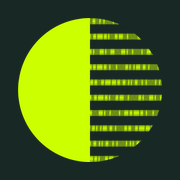
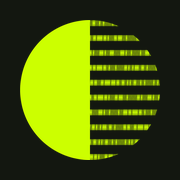
Match the homepage hero to the neon site header
The hero is the Primary Logo 4 wordmark with a glow, the faint grid, a signal wave, and the mono line Official data, clearly explained. The page background is the header's near-black green, including methodology, privacy, and terms.

Changed region(s): [[0.0833, 0.0833, 0.9167, 0.9167]]

diff --git a/index.html b/index.html
@@ -3,33 +3,33 @@
 <head>
     <meta charset="UTF-8">
     <meta name="viewport" content="width=device-width, initial-scale=1.0">
-    <title>Global Signal | All Signal, No Noise.</title>
+    <title>Global Signal | Official data, clearly explained</title>
     <meta name="description" content="Markets and the economy, explained with official data. Watch Global Signal, then read the weekly breakdown on Substack.">
     <meta name="author" content="Global Signal">
     <meta name="robots" content="index, follow">
-    <meta name="theme-color" content="#182825">
+    <meta name="theme-color" content="#131710">
     <meta name="color-scheme" content="dark">
     <link rel="canonical" href="https://www.globalsignal.org/">
 
     <meta property="og:type" content="website">
     <meta property="og:site_name" content="Global Signal">
     <meta property="og:locale" content="en_US">
-    <meta property="og:title" content="Global Signal | All Signal, No Noise.">
+    <meta property="og:title" content="Global Signal | Official data, clearly explained">
     <meta property="og:description" content="Markets and the economy, explained with official data.">
     <meta property="og:url" content="https://www.globalsignal.org/">
     <meta property="og:image" content="https://www.globalsignal.org/assets/og-image.png">
     <meta property="og:image:type" content="image/png">
     <meta property="og:image:width" content="1200">
     <meta property="og:image:height" content="630">
-    <meta property="og:image:alt" content="Global Signal wordmark in neon on dark emerald, with the line All Signal, No Noise.">
+    <meta property="og:image:alt" content="Global Signal wordmark in neon on near-black green, with the line Official data, clearly explained.">
 
     <meta name="twitter:card" content="summary_large_image">
     <meta name="twitter:site" content="@globalsignalorg">
-    <meta name="twitter:title" content="Global Signal | All Signal, No Noise.">
+    <meta name="twitter:title" content="Global Signal | Official data, clearly explained">
     <meta name="twitter:description" content="Markets and the economy, explained with official data.">
     <meta name="twitter:url" content="https://www.globalsignal.org/">
     <meta name="twitter:image" content="https://www.globalsignal.org/assets/og-image.png">
-    <meta name="twitter:image:alt" content="Global Signal wordmark in neon on dark emerald, with the line All Signal, No Noise.">
+    <meta name="twitter:image:alt" content="Global Signal wordmark in neon on near-black green, with the line Official data, clearly explained.">
 
     <link rel="icon" type="image/png" href="/assets/apple-touch-icon.png">
     <link rel="apple-touch-icon" href="/assets/apple-touch-icon.png">
@@ -44,10 +44,17 @@
 
     <main id="main" tabindex="-1">
         <header class="hero">
+            <svg class="hero-wave" viewBox="0 0 1440 420" preserveAspectRatio="none" aria-hidden="true" focusable="false">
+                <path d="M-20 168 C 160 118, 340 228, 520 176 S 860 108, 1060 176 S 1320 246, 1460 176" fill="none" stroke="#6d7a3a" stroke-opacity="0.28" stroke-width="1.4"/>
+                <path d="M-20 232 C 220 292, 420 168, 680 224 S 1040 300, 1460 210" fill="none" stroke="#4e5c30" stroke-opacity="0.34" stroke-width="1.2"/>
+            </svg>
             <div class="wrap">
                 <img class="wordmark" src="/assets/primary-logo-4.png" alt="Global Signal" width="2321" height="230" fetchpriority="high">
-                <h1 class="tagline">All Signal, No Noise.</h1>
-                <p class="lede">Markets and the economy, explained with official data.</p>
+                <h1 class="hero-kicker">
+                    <span class="hero-rule" aria-hidden="true"></span>
+                    <span>Official data, clearly explained</span>
+                    <span class="hero-rule" aria-hidden="true"></span>
+                </h1>
             </div>
         </header>
 

diff --git a/css/home.css b/css/home.css
@@ -1,12 +1,13 @@
 /**
  * Global Signal splash page.
- * Neon #CCFF00 logo, headings, and primary buttons on Dark Emerald #182825.
+ * Neon #CCFF00 logo, headings, and primary buttons on the near-black green
+ * sampled from the site header, #131710.
  * Body text stays champagne. Type follows the original site:
  * Source Serif 4 headings, Inter body, JetBrains Mono labels and buttons.
  */
 
 :root {
-    --emerald: #182825;
+    --emerald: #131710;
     --champagne: #EAEDB0;
     --champagne-dim: #C9CC9E;
     --neon: #CCFF00;
@@ -47,9 +48,9 @@ body::before {
     position: fixed;
     inset: 0;
     background-image:
-        linear-gradient(rgba(234, 237, 176, 0.045) 1px, transparent 1px),
-        linear-gradient(90deg, rgba(234, 237, 176, 0.045) 1px, transparent 1px);
-    background-size: 60px 60px;
+        linear-gradient(rgba(186, 196, 150, 0.07) 1px, transparent 1px),
+        linear-gradient(90deg, rgba(186, 196, 150, 0.07) 1px, transparent 1px);
+    background-size: 120px 120px;
     pointer-events: none;
     z-index: 0;
 }
@@ -125,24 +126,24 @@ a {
 
 .hero {
     position: relative;
-    padding: 3.25rem 0 1.5rem;
+    padding: 3.5rem 0 2.25rem;
+    overflow: hidden;
 }
 
-.hero::before {
-    content: "";
+.hero-wave {
     position: absolute;
-    left: 50%;
-    top: -4rem;
-    width: min(52rem, 140%);
-    height: 24rem;
-    transform: translateX(-50%);
-    background: radial-gradient(ellipse at center, rgba(204, 255, 0, 0.09), transparent 68%);
+    left: 0;
+    right: 0;
+    top: 8%;
+    width: 100%;
+    height: 78%;
     pointer-events: none;
 }
 
 .hero .wrap {
     position: relative;
-    width: min(100%, var(--hero));
+    z-index: 1;
+    width: min(100%, 76rem);
     display: flex;
     flex-direction: column;
     align-items: center;
@@ -150,29 +151,38 @@ a {
 }
 
 .wordmark {
-    width: auto;
-    height: clamp(3.15rem, 9vw, 5rem);
+    width: min(100%, 68rem);
+    height: auto;
+    filter:
+        drop-shadow(0 0 12px rgba(204, 255, 0, 0.55))
+        drop-shadow(0 0 36px rgba(204, 255, 0, 0.28));
+}
+
+.hero-kicker {
+    display: flex;
+    align-items: center;
+    justify-content: center;
+    gap: 0.55rem;
+    margin: 1.65rem 0 0;
     max-width: 100%;
-    filter: drop-shadow(0 0 22px rgba(204, 255, 0, 0.28));
+    font-family: var(--mono);
+    font-size: clamp(0.58rem, 2.5vw, 0.82rem);
+    font-weight: 400;
+    letter-spacing: 0.12em;
+    line-height: 1;
+    text-transform: uppercase;
+    color: #96b23c;
 }
 
-.tagline {
-    margin: 1.75rem 0 0;
-    font-family: var(--serif);
-    font-weight: 600;
-    font-size: clamp(2.5rem, 6vw, 4.5rem);
-    line-height: 1.1;
-    color: var(--neon);
-    text-wrap: balance;
-    hyphens: manual;
+.hero-kicker span:not(.hero-rule) {
+    white-space: nowrap;
 }
 
-.lede {
-    max-width: 40rem;
-    margin: 1.15rem 0 0;
-    font-size: 1.15rem;
-    line-height: 1.7;
-    color: var(--champagne);
+.hero-rule {
+    flex: 0 0 auto;
+    width: 1.1rem;
+    height: 1px;
+    background: currentColor;
 }
 
 .band {
@@ -510,7 +520,19 @@ a {
 
 @media (min-width: 40rem) {
     .hero {
-        padding-top: 4.5rem;
+        padding-top: 4.75rem;
+        padding-bottom: 2.75rem;
+    }
+
+    .hero-kicker {
+        gap: 1rem;
+        margin-top: 2rem;
+        letter-spacing: 0.34em;
+        font-size: 0.8rem;
+    }
+
+    .hero-rule {
+        width: 4.25rem;
     }
 
     .cta-row {

diff --git a/css/pages.css b/css/pages.css
@@ -5,9 +5,9 @@
  */
 
 :root {
-    --color-void: #182825;
-    --color-deep: #182825;
-    --color-dark-emerald: #182825;
+    --color-void: #131710;
+    --color-deep: #131710;
+    --color-dark-emerald: #131710;
     --color-billiard: #2F5951;
     --color-champagne: #EAEDB0;
     --color-text-primary: #EAEDB0;
@@ -27,14 +27,14 @@
 }
 
 body {
-    background: #182825;
+    background: #131710;
     color: #EAEDB0;
     font-family: Inter, "Segoe UI", Helvetica, Arial, sans-serif;
 }
 
 ::selection {
     background: #CCFF00;
-    color: #182825;
+    color: #131710;
 }
 
 h1,
@@ -64,7 +64,7 @@ a:hover {
     position: sticky;
     top: 0;
     z-index: 2;
-    background: #182825;
+    background: #131710;
     border-bottom: 1px solid rgba(204, 255, 0, 0.28);
 }
 
@@ -95,7 +95,7 @@ a:hover {
 }
 
 .footer {
-    background: #182825;
+    background: #131710;
     border-top: 1px solid rgba(204, 255, 0, 0.28);
 }
 

diff --git a/terms.html b/terms.html
@@ -7,7 +7,7 @@
     <meta name="description" content="Global Signal Terms of Service - Terms and conditions for using our services.">
     <meta name="robots" content="index, follow">
     
-    <meta name="theme-color" content="#182825">
+    <meta name="theme-color" content="#131710">
     
     <link rel="icon" type="image/png" href="/assets/apple-touch-icon.png">
     <link rel="apple-touch-icon" href="/assets/apple-touch-icon.png">

diff --git a/privacy.html b/privacy.html
@@ -7,7 +7,7 @@
     <meta name="description" content="Global Signal Privacy Policy - How we collect, use, and protect your data.">
     <meta name="robots" content="index, follow">
     
-    <meta name="theme-color" content="#182825">
+    <meta name="theme-color" content="#131710">
     
     <link rel="icon" type="image/png" href="/assets/apple-touch-icon.png">
     <link rel="apple-touch-icon" href="/assets/apple-touch-icon.png">

diff --git a/methodology.html b/methodology.html
@@ -8,7 +8,7 @@
     <meta name="robots" content="index, follow">
     <link rel="canonical" href="https://www.globalsignal.org/methodology">
 
-    <meta name="theme-color" content="#182825">
+    <meta name="theme-color" content="#131710">
     <link rel="icon" type="image/png" href="/assets/apple-touch-icon.png">
     <link rel="apple-touch-icon" href="/assets/apple-touch-icon.png">
 

diff --git a/README.md b/README.md
@@ -58,7 +58,7 @@ Then open `http://localhost:8080/`.
 
 ## Brand
 
-The site uses the neon look of the original homepage. Neon `#CCFF00` is the logo, the headings, and the primary buttons (dark emerald text on those buttons). The page background is dark emerald `#182825`. Body text is champagne `#EAEDB0`.
+The site uses the neon look of the original homepage. Neon `#CCFF00` is the logo, the headings, and the primary buttons (near-black text on those buttons). The page background is the header's near-black green `#131710`. Body text is champagne `#EAEDB0`. The hero is the neon Primary Logo 4 wordmark, a faint grid, a signal wave, and the mono line “Official data, clearly explained.”
 
 Type matches the original site: [Source Serif 4](https://fonts.google.com/specimen/Source+Serif+4) for headings, [Inter](https://fonts.google.com/specimen/Inter) for body text, and [JetBrains Mono](https://fonts.google.com/specimen/JetBrains+Mono) for buttons and labels.
 
